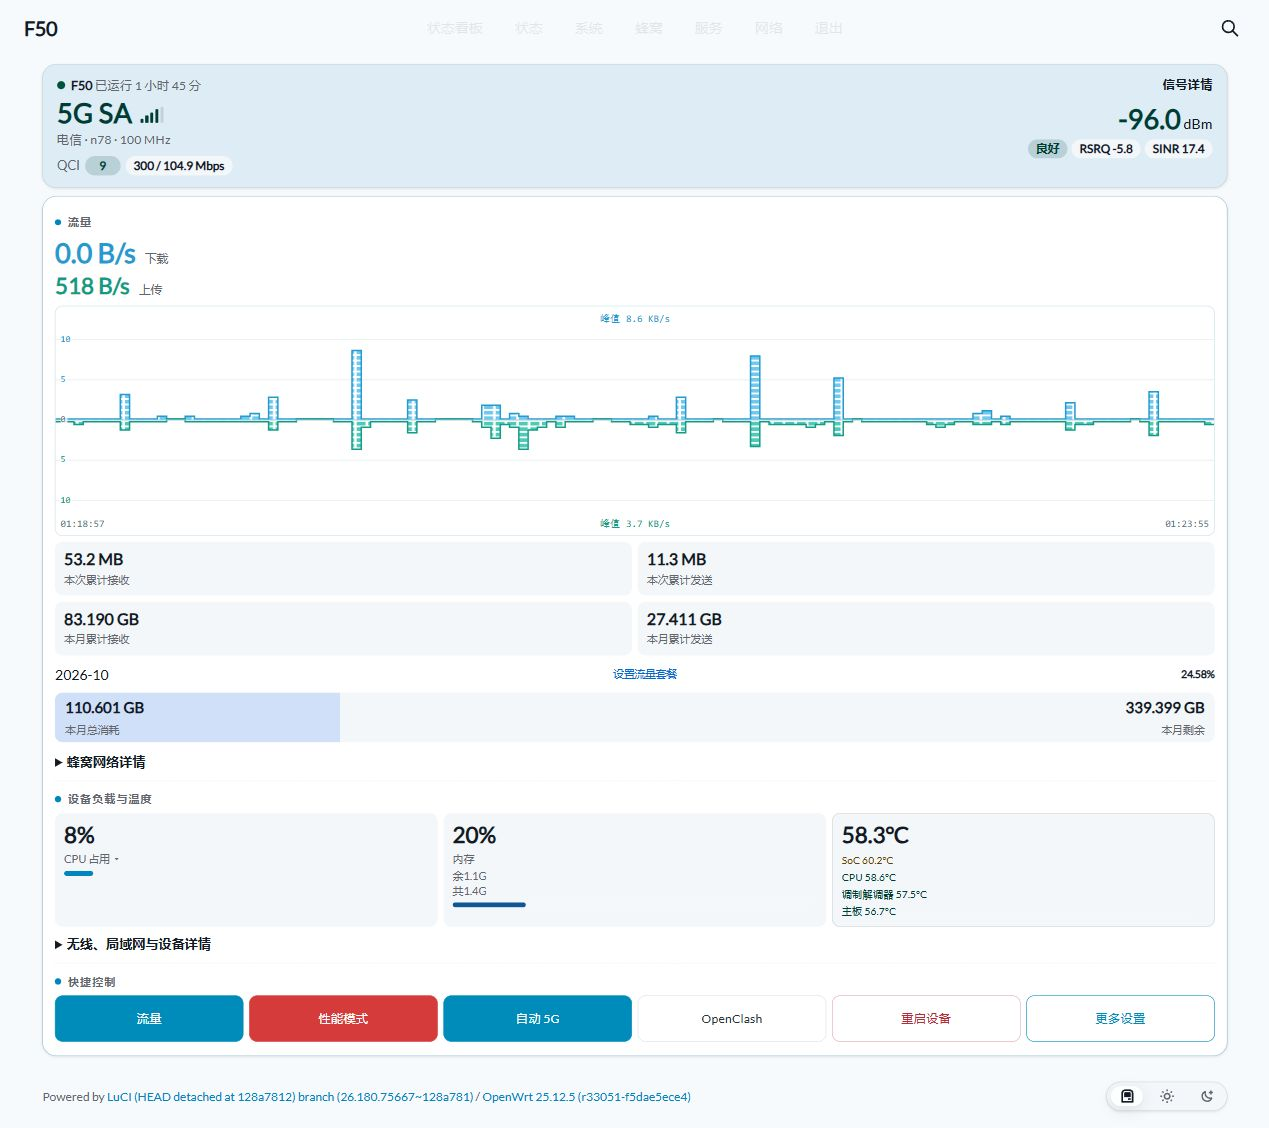
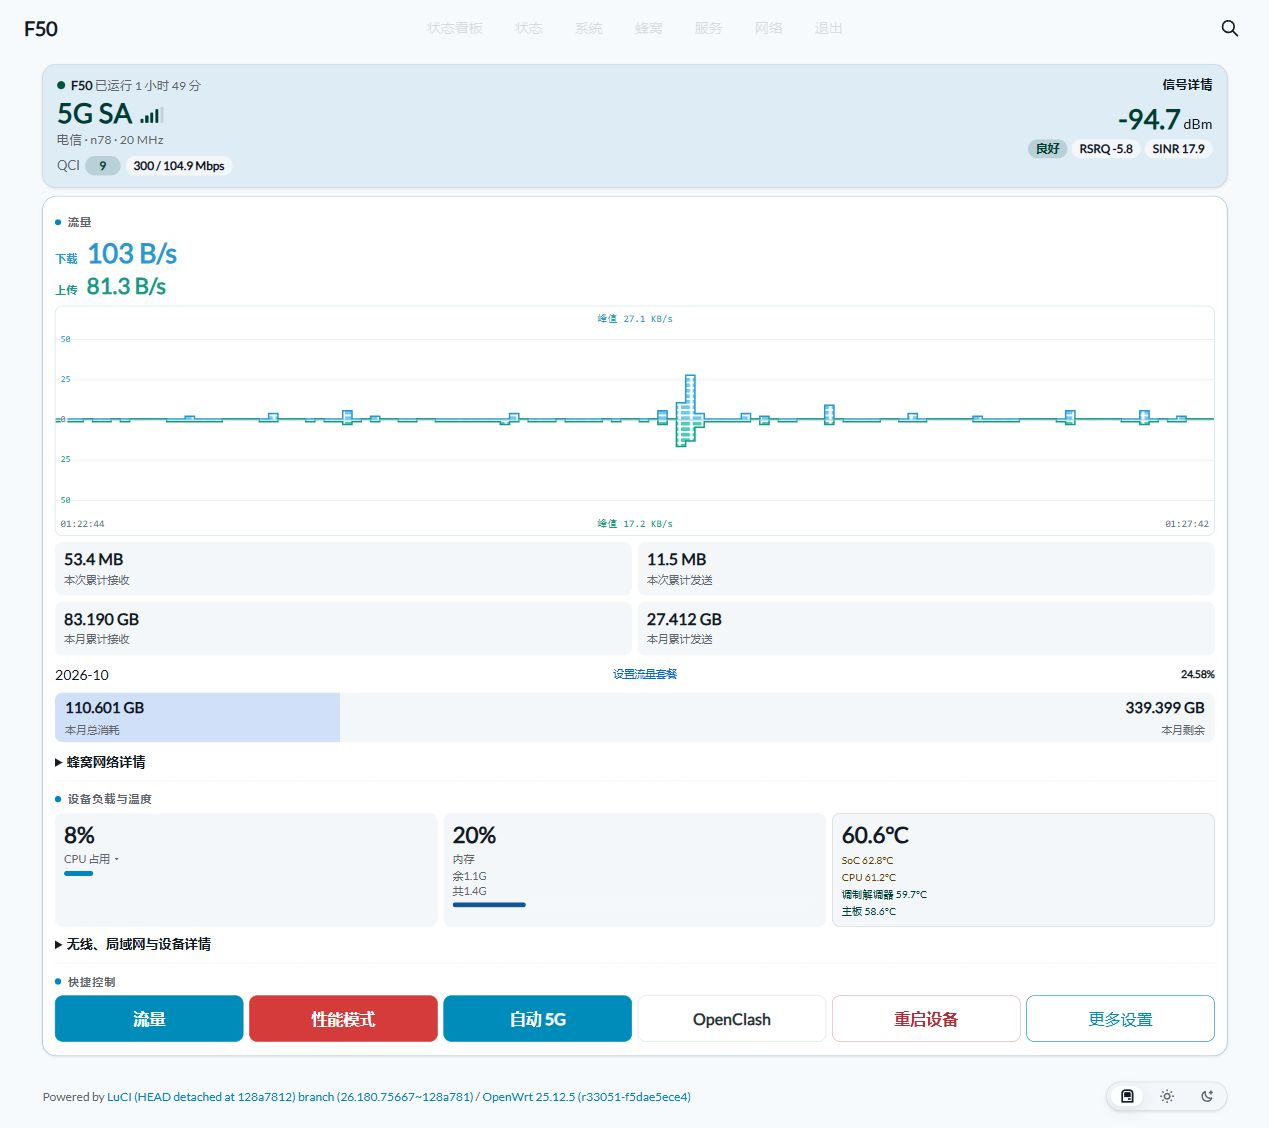
Refine traffic labels and enlarge quick control text

diff --git a/extras/dashboard/home.js b/extras/dashboard/home.js
@@ -155,8 +155,8 @@ return view.extend({
   <h3>流量</h3>
   <div class="f50-combined-chart" style="width:100%">
     <div class="f50-rate-head">
-      <div class="f50-rate-download"><b id="mud-dl">--</b><span>下载</span></div>
-      <div class="f50-rate-upload"><b id="mud-ul">--</b><span>上传</span></div>
+      <div class="f50-rate-download"><span>下载</span><b id="mud-dl">--</b></div>
+      <div class="f50-rate-upload"><span>上传</span><b id="mud-ul">--</b></div>
     </div>
     <div id="mud-rate-chart" style="width:100%;margin:6px 0;touch-action:pan-y"></div>
     <div id="mud-rate-detail" style="display:none;font-size:.75em;margin:4px 0"></div>
@@ -283,16 +283,18 @@ return view.extend({
 
  organize: function(root) {
   root.classList.add('f50-home');
+  requestAnimationFrame(function(){var title=root.querySelector('.mud-sec h3');if(title){var style=getComputedStyle(title);root.style.setProperty('--f50-rate-label-size',style.fontSize);root.style.setProperty('--f50-rate-label-weight',style.fontWeight);}});
   root.prepend(E('style', {}, `
    .f50-home{--f50-dl:#249ad1;--f50-ul:#159b85}
    .f50-home .f50-rate-head{display:flex;flex-direction:column;gap:3px;margin:5px 0 7px}
    .f50-home .f50-rate-head>div{display:flex;align-items:baseline;gap:9px;min-width:0}
    .f50-home .f50-rate-head b{font-variant-numeric:tabular-nums;line-height:1.2}
    .f50-home .f50-rate-download{color:var(--f50-dl)}
-   .f50-home .f50-rate-download b{font-size:1.7rem;font-weight:750}
+   .f50-home .f50-rate-download{font-size:1.7rem;font-weight:750}
    .f50-home .f50-rate-upload{color:var(--f50-ul)}
-   .f50-home .f50-rate-upload b{font-size:1.4rem;font-weight:650}
-   .f50-home .f50-rate-head span{font-size:.72rem;white-space:nowrap;color:var(--text-muted,#777)}
+   .f50-home .f50-rate-upload{font-size:1.4rem;font-weight:650}
+   .f50-home .f50-rate-head span,.f50-home .f50-rate-head b{font-size:inherit;font-weight:inherit;white-space:nowrap;color:inherit}
+   .f50-home .f50-rate-head span{font-size:var(--f50-rate-label-size,1rem);font-weight:var(--f50-rate-label-weight,600)}
    html[data-darkmode=true] .f50-home{--f50-dl:#249ad1;--f50-ul:#159b85}
    .f50-home .f50-core-grid{display:grid;grid-template-columns:repeat(4,minmax(0,1fr));gap:6px;margin:6px 0 8px}
    .f50-home .f50-core{padding:7px 9px;border-radius:var(--radius-base,.5rem);background:var(--surface-sunken,rgba(127,127,127,.06));font-size:.72rem}
@@ -470,6 +472,10 @@ return view.extend({
    .f50-home #mud-btn-other,.f50-home #mud-btn-other[aria-expanded=false],.f50-home #f50-other-controls>.mud-btn,.f50-home #f50-other-controls .mud-lockbtn{background:#fff!important;border-color:#008cba!important;color:#008cba!important}
    .f50-home #mud-btn-other[aria-expanded=true],.f50-home #f50-other-controls>.mud-btn.on,.f50-home #f50-other-controls>.mud-btn[aria-pressed=true],.f50-home #f50-other-controls>.mud-btn[aria-expanded=true],.f50-home #f50-other-controls .mud-lockbtn.locked{background:#008cba!important;border-color:#008cba!important;color:#fff!important}
    .f50-home #mud-btn-other{font-weight:650!important;position:relative;box-shadow:none!important}
+   .f50-home .f50-primary-controls>.mud-btn{font-size:1rem!important;font-weight:600!important}
+   .f50-home #f50-other-controls>.mud-btn{font-size:clamp(.875rem,2.6vw,1rem)!important;font-weight:600!important}
+   .f50-home #mud-btn-other{font-size:1rem!important}
+   .f50-home #f50-other-controls #mud-btn-highspeed.f50-highrail-switching{font-size:.75rem!important}
    .f50-home #mud-btn-other:after,.f50-home #f50-other-controls:before,.f50-home #f50-other-controls:after{display:none!important;content:none!important}
    .f50-home #f50-other-controls{padding:0;border:0;border-radius:0;margin-top:14px;background:transparent;overflow:visible}
    .f50-home .f50-controls-section{position:relative;isolation:isolate}
